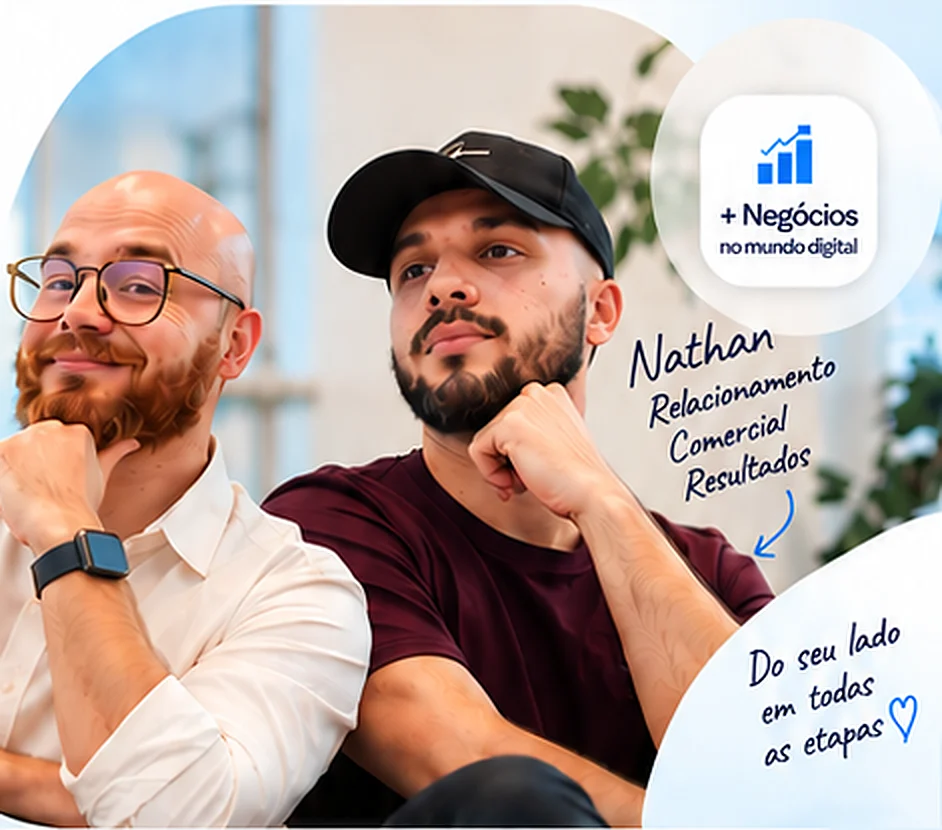
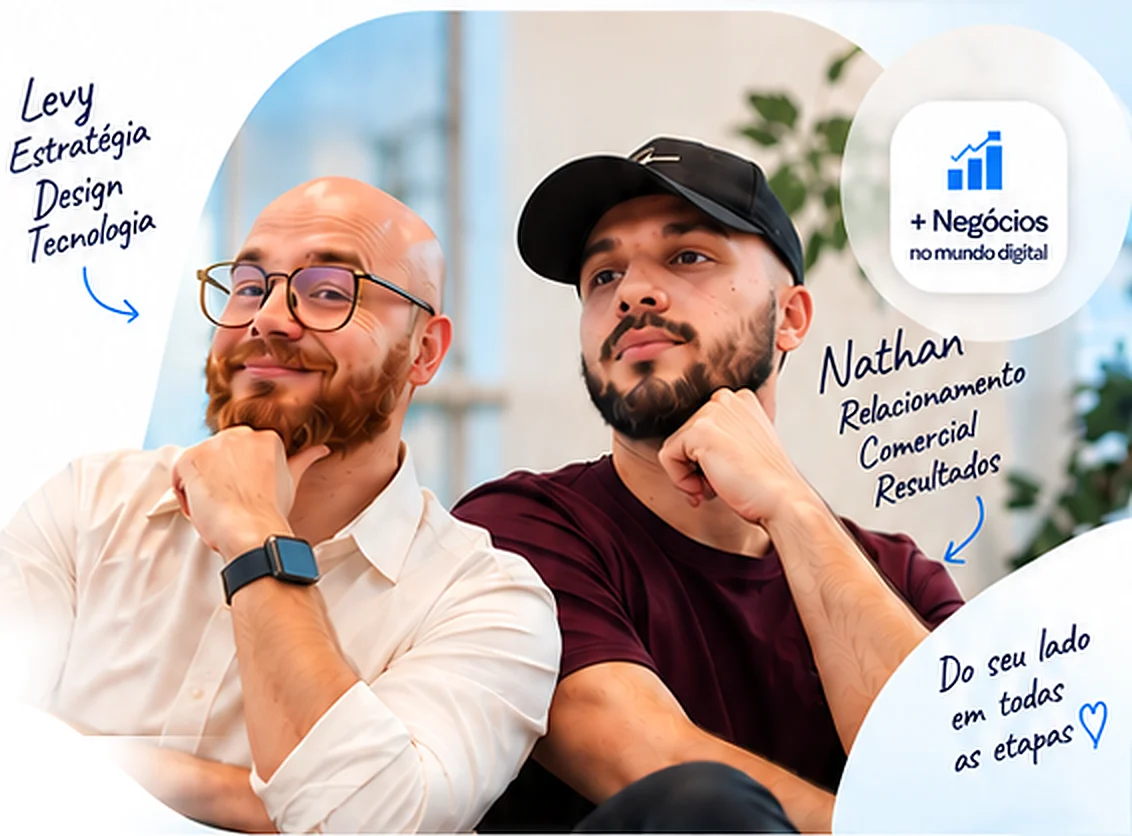
Corrige a foto principal cortada
A foto do Levy e do Nathan agora mostra os dois por inteiro, com a
borda esquerda suavizada, e a anotação do Levy faz parte da imagem.

Claude-Session: https://claude.ai/code/session_01Jd1bL4G34qSimKiXDmPm64

diff --git a/style.css b/style.css
@@ -155,17 +155,6 @@ ul { list-style: none; margin: 0; padding: 0; }
 .hero__media { position: relative; }
 .hero__media img { width: 100%; border-radius: 28px; }
 .note { color: var(--navy); line-height: 1.05; pointer-events: none; }
-.note--levy {
-  position: absolute; left: -64px; top: 6%;
-  font-size: 2rem; transform: rotate(-8deg);
-}
-.note--levy small { display: block; font-size: .7em; padding-left: 10px; }
-.note--levy::after {
-  content: ""; position: absolute; left: 44px; bottom: -34px;
-  width: 30px; height: 30px;
-  border-right: 2px solid var(--navy); border-bottom: 2px solid var(--navy);
-  border-radius: 0 0 20px 0; transform: rotate(10deg);
-}
 
 /* ---------- Seções ---------- */
 .section { padding: 70px 0; }
@@ -334,7 +323,6 @@ ul { list-style: none; margin: 0; padding: 0; }
   .topbar__cta span { display: none; }
   .topbar__cta { padding: .7em; }
   .topbar__cta .ico--arrow { display: none; }
-  .note--levy { left: -20px; font-size: 1.7rem; }
   .sobre__grid { grid-template-columns: 1fr 1.3fr; }
   .stats { grid-column: 1 / -1; grid-template-columns: repeat(3, 1fr); }
   .cards { grid-template-columns: repeat(2, 1fr); }
@@ -362,7 +350,6 @@ ul { list-style: none; margin: 0; padding: 0; }
   .hero { padding-top: 24px; }
   .hero__grid { grid-template-columns: 1fr; gap: 36px; }
   .hero__media { order: -1; max-width: 560px; margin-inline: auto; }
-  .note--levy { display: none; }
   .hero__text { text-align: left; }
 
   .sobre__grid { grid-template-columns: 1fr; }

diff --git a/index.html b/index.html
@@ -74,8 +74,7 @@
         </div>
 
         <div class="hero__media">
-          <p class="note note--levy script" aria-hidden="true">Levy<br><small>Estratégia<br>Design<br>Tecnologia</small></p>
-          <img src="assets/hero.webp" width="942" height="830" alt="Levy e Nathan, fundadores da Business 2 Brothers" fetchpriority="high" />
+          <img src="assets/hero.webp" width="1132" height="836" alt="Levy (estratégia, design e tecnologia) e Nathan (relacionamento comercial e resultados), fundadores da Business 2 Brothers" fetchpriority="high" />
         </div>
       </div>
     </section>
